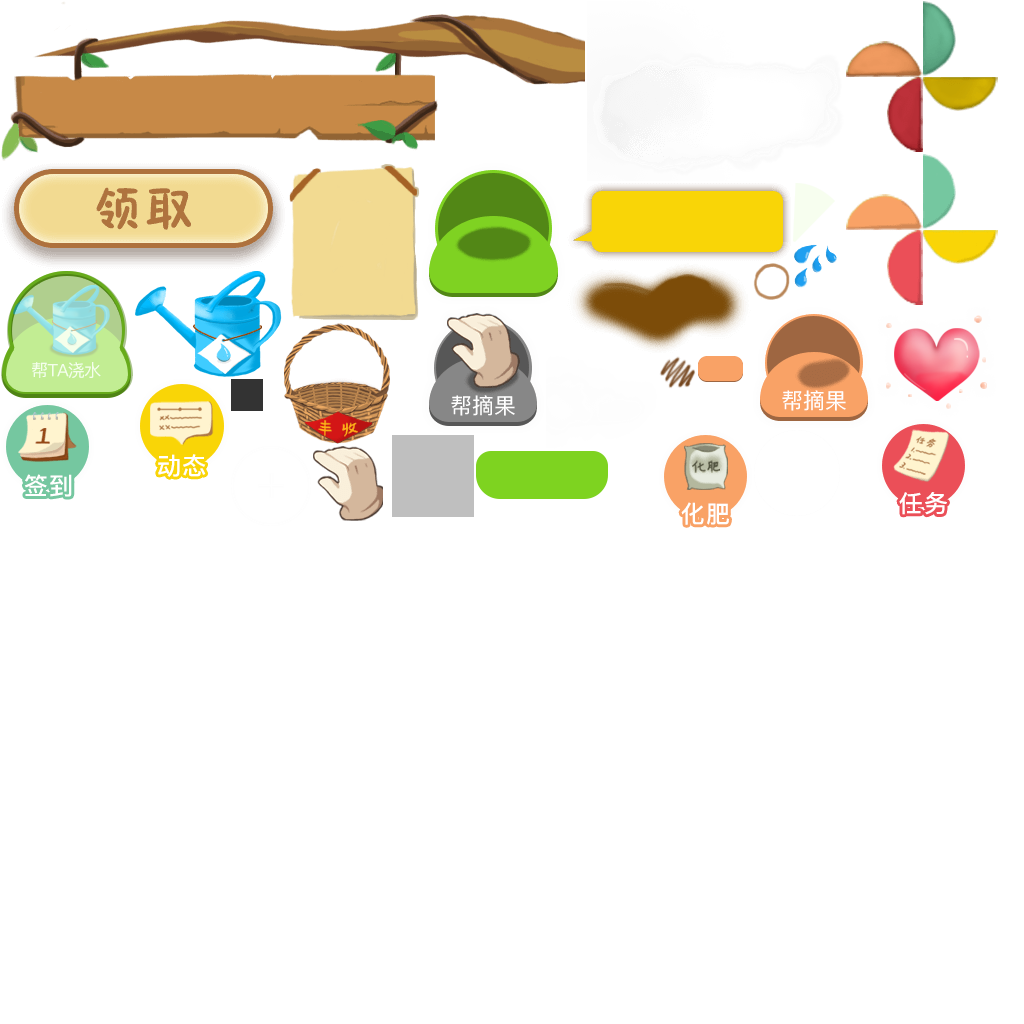
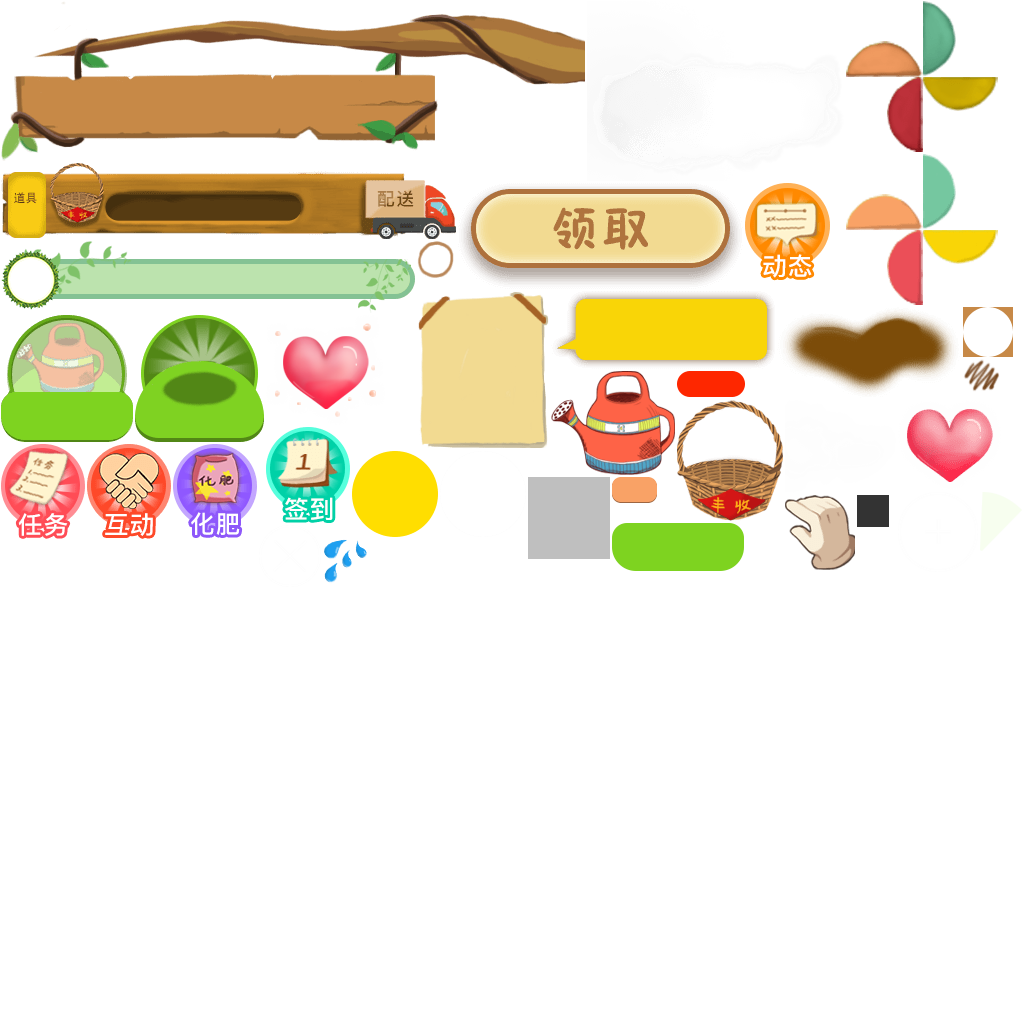
替换整合图片资源

Changed region(s): [[0.0, 0.1562, 1.0, 0.5625]]

diff --git a/src/Game/Help.ts b/src/Game/Help.ts
@@ -80,88 +80,6 @@ class Help{
     }
 
 
-
-    //根据阶段获取和种类果树图片
-    public static getTreeIconBystage(stage,type,istake){
-            // if(stage == 1){
-            //     return "treemiao"               //苗
-            // }
-             if(stage == 1){
-                if(type == 1){
-                    return "appletree1"     //树
-                }
-                else if(type == 2){
-                    return "baletree1_png"
-                }
-            
-            }
-            else if(stage == 2){
-                if(type == 1){
-                    return "appletree2"     //大树
-                }
-                else if(type == 2){
-                    return "baletree2"
-                }
-            }
-            else if(stage == 3){
-                if(type == 1){
-                    return "appletree3"     //开花
-                }
-                else if(type == 2){
-                    return "baletree3"
-                }
-            }
-            else if(stage == 4){
-                if(type == 1 && istake == "false"){
-                    return "appletree4"             //结果(绿)
-                }
-                else if(type == 1 && istake == "true"){
-                    return "appletree5"             //半红半绿
-                }
-                else if(type == 2 && istake == "false"){
-                    return "baletree4"
-                }
-                else if(type == 5 && istake == "true"){
-                    return "baletree5"             //半红半绿
-                }
-            }
-            else if(stage == 5){
-                if(type == 1 && istake == "false"){
-                    return "appletree4"                 //结果(绿)
-                }
-                else if(type == 1 && istake == "true"){
-                    return "appletree6"                 //半红半绿
-                }
-                else if(type == 2 && istake == "false"){
-                    return "baletree4"                 //半红半绿
-                }
-                else if(type == 2 && istake == "true"){
-                    return "baletree6"                 //半红半绿
-                }
-            }   
-            else if(stage ==6){
-                 if(type == 1 && istake == "false"){
-                    return "appletree4"                 //结果(绿)
-                }
-                else if(type == 1 && istake == "true"){
-                    return "appletree7"                 
-                }
-                else if(type == 1 && istake == "false"){
-                    return "baletree4"                 
-                }
-                else if(type == 1 && istake == "true"){
-                    return "baletree7"                 
-                }
-                
-            } 
-            else if(type == 1&&stage ==7){
-                    return "appletree7"                 
-            }
-            else if(type == 2&&stage ==7){
-                    return "baleree7"                 
-            } 
-    }
-
     //获取阶段果树锚点长宽等
     public static getTreeHWBystage(stage,img:eui.Image){
         if(stage<2){
@@ -341,7 +259,7 @@ class Help{
         img_love.height = 63.7;
         img_love.x = 350;
         img_love.y = 626;
-        img_love.texture = RES.getRes("loveimg_png");   
+        img_love.texture = RES.getRes("loveimg");   
         let label_love = new eui.Label;
         label_love.x = 426;
         label_love.y = 638;
@@ -386,7 +304,7 @@ class Help{
         let img_love = new eui.Image();
         img_love.x = 615;
         img_love.y = 806;
-        img_love.texture = RES.getRes("loveimg_png");
+        img_love.texture = RES.getRes("loveimg");
         SceneManager.sceneManager.mainScene.addChild(img_love);
         egret.Tween.get(img_love)
         .to({x:615,y:730},500)
@@ -394,5 +312,8 @@ class Help{
             ()=>{SceneManager.sceneManager.mainScene.removeChild(img_love);
                  SceneManager.sceneManager.mainScene.getOwnTree();},this); 
     }
+
+    
+
 }
 	

diff --git a/src/Game/MainScene.ts b/src/Game/MainScene.ts
@@ -473,7 +473,7 @@ class MainScene extends eui.Component implements eui.UIComponent {
 		barragbg.y = 0;
 		barragbg.width = 414;
 		barragbg.height = 72;
-		barragbg.texture = RES.getRes('barragebg-green_png');
+		barragbg.texture = RES.getRes('barragebg-green');
 		barragegroup.addChild(barragbg);
 		
 		//添加弹幕头像
@@ -537,7 +537,7 @@ class MainScene extends eui.Component implements eui.UIComponent {
 			barragbg.y = 0;
 			barragbg.width = 414;
 			barragbg.height = 72;
-			barragbg.texture = RES.getRes('barragebg-green_png');
+			barragbg.texture = RES.getRes('barragebg-green');
 			barragegroup.addChild(barragbg);
 
 			//添加弹幕头像
@@ -604,17 +604,23 @@ class MainScene extends eui.Component implements eui.UIComponent {
 
     //查询成功的处理
     private Req_getSignInInfo(data): void {
-		let Signdate = data.data.lastSignDay;
-		Signdate = Signdate.replace(new RegExp(/-/gm), "/"); //将所有的'-'转为'/'即可
-		let nowdate = new Date();
-		let time = new Date(Signdate);
-		if(time.getDate() == nowdate.getDate()&&time.getMonth() == nowdate.getMonth()){
-			this.sign_gro.visible = false;
+		if(data){
+			let Signdate = data.data.lastSignDay;
+			Signdate = Signdate.replace(new RegExp(/-/gm), "/"); //将所有的'-'转为'/'即可
+			let nowdate = new Date();
+			let time = new Date(Signdate);
+			if(time.getDate() == nowdate.getDate()&&time.getMonth() == nowdate.getMonth()){
+				this.sign_gro.visible = false;
+			}
+			else{
+				this.sign_gro.visible = true;
+			}
+			console.log(data,"签到数据")
 		}
 		else{
 			this.sign_gro.visible = true;
 		}
-		console.log(data,"签到数据")
+		
 	}
 
 

diff --git a/src/Game/SceneManager.ts b/src/Game/SceneManager.ts
@@ -7,7 +7,6 @@ class SceneManager {
     public dynamicScene: DynamicScene            //动态场景
     public signinScene: SigninScene              //领取种子场景
     public huafeiScene: HuafeiScene              //化肥场景
-    public treePrompt: TreePrompt                //弹出消息框
     public friendSign: string                    //转发用户的标识，可以用于奖励道具
     public weixinUtil: WeixinUtil                //微信操作类
     private webSocket: GameWebSocket                  //推送类
@@ -24,7 +23,6 @@ class SceneManager {
         this.dynamicScene = new DynamicScene()
         this.signinScene = new SigninScene()
         this.huafeiScene = new HuafeiScene()
-        this.treePrompt = new TreePrompt()
         this.weixinUtil = new WeixinUtil()
         this.friendSign = MyRequest.geturlstr("friendSign")
     }
@@ -195,7 +193,7 @@ class SceneManager {
     // }
 
     public static treetimer:egret.Timer = new egret.Timer(3000,1);
-    private static treeprompt:TreePrompt = new TreePrompt ();
+    private static treeprompt:TreePrompt = new TreePrompt();
     public static treepromptgro:eui.Group = new eui.Group();
 
     static addtreePrompt(info: string){
